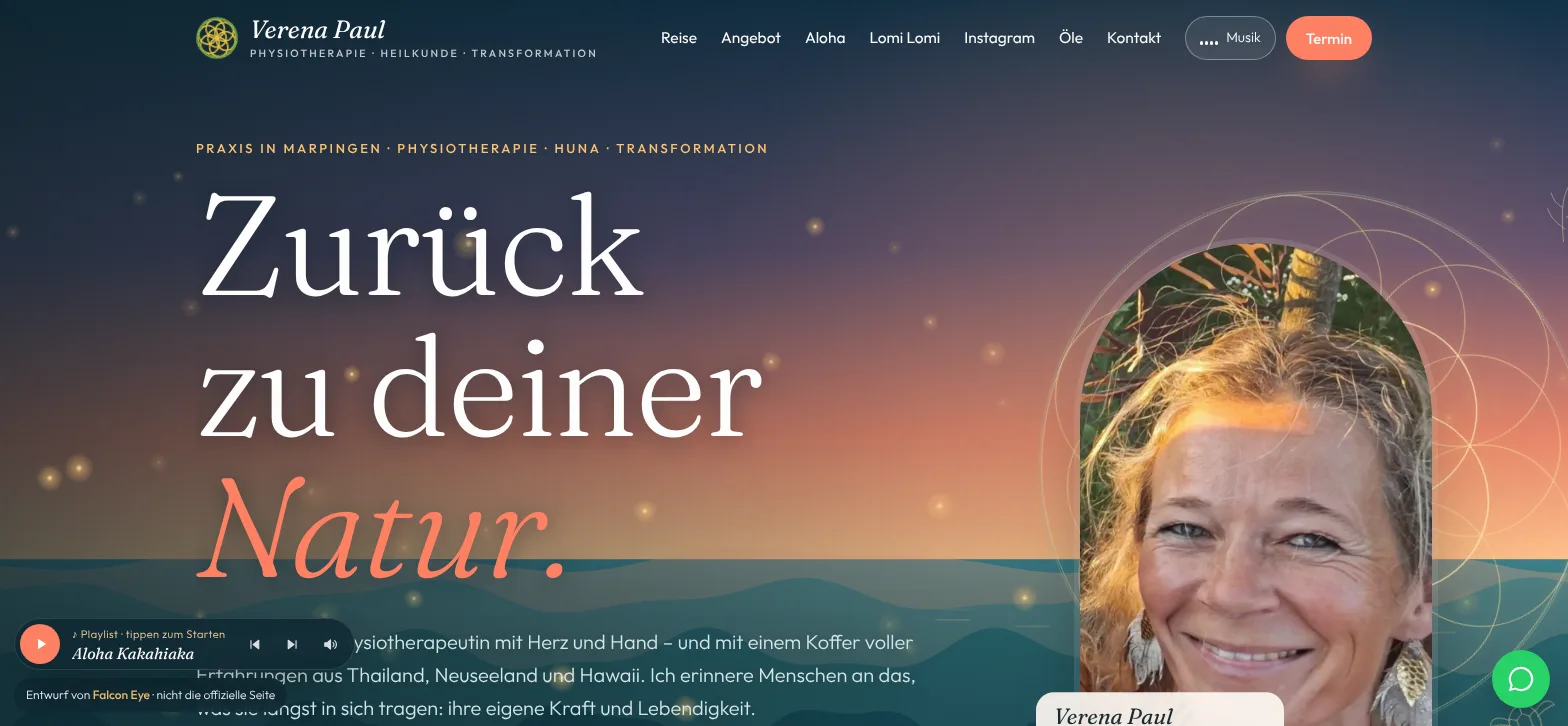
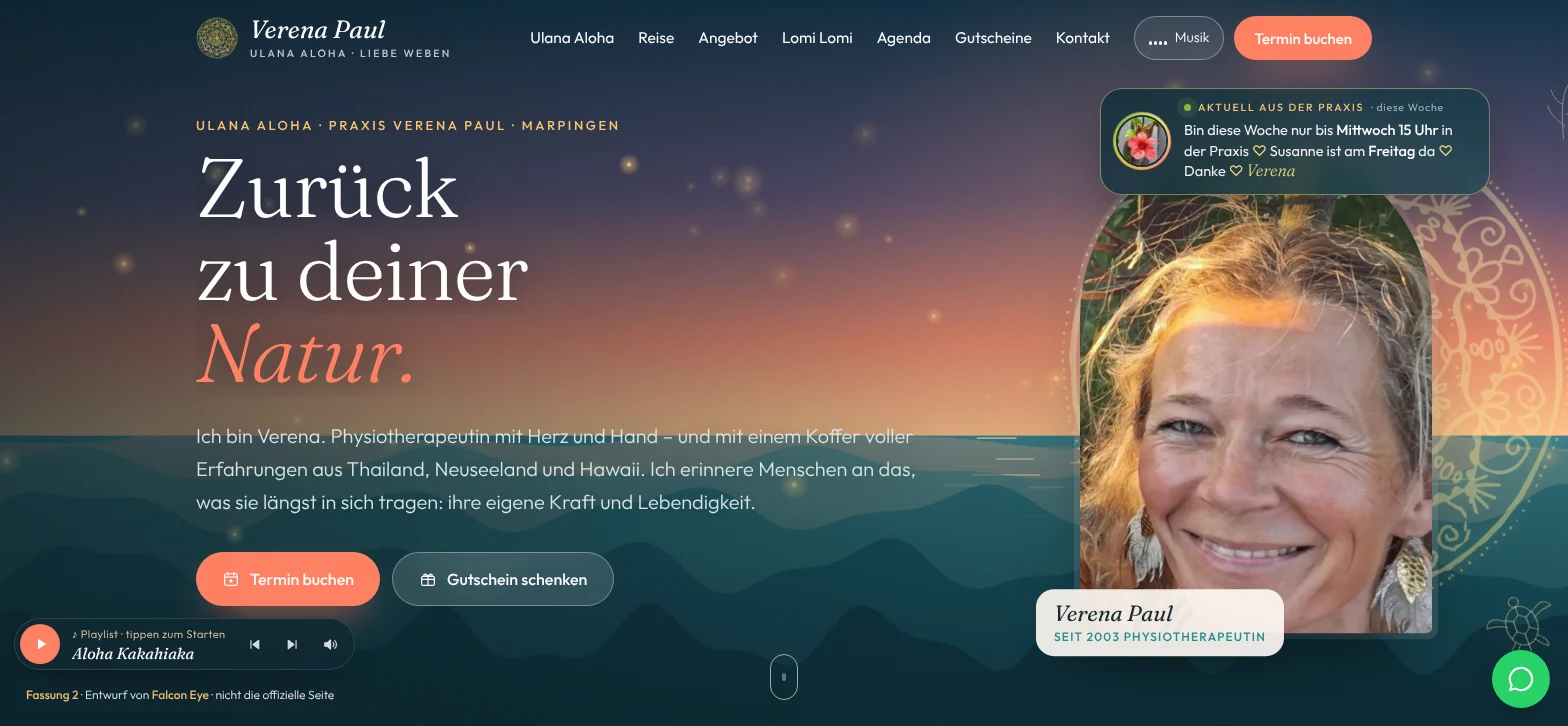
Verena: überall nur die aktuelle Fassung verlinken (Vorhang → V2, Fehlerseite → V2, Hinweis auf V1)
- Vorhang start-verena-paul leitet jetzt auf /verena-paul/v2/ weiter, Vorschaubild „Ab jetzt“ zeigt Fassung 2
- 404-Vorschläge: verena-paul/v2/ statt Fassung 1
- Fassung 1: Hinweis-Chip „Ältere Fassung 1 · zur aktuellen Fassung →“

Claude-Session: https://claude.ai/code/session_016LEtCVV3DNDZYMjAEbo3YN

diff --git a/verena-paul/index.html b/verena-paul/index.html
@@ -428,7 +428,7 @@
   <button type="button" class="pl-b" data-pl-mute aria-label="Stumm schalten" aria-pressed="false"><svg viewBox="0 0 24 24" aria-hidden="true"><g fill="none" stroke="currentColor" stroke-width="1.7" stroke-linecap="round" stroke-linejoin="round"><path d="M4 9.5h3.5L12 5.5v13l-4.5-4H4z" fill="currentColor"/><path class="pl-w" d="M15.5 9a4 4 0 0 1 0 6M18 6.5a7.5 7.5 0 0 1 0 11"/><path class="pl-x" d="M16 9.5l5 5M21 9.5l-5 5"/></g></svg></button>
   <ol class="pl-tracks" data-pl-tracks hidden><li><button type="button" data-pl-track="0"><i>1</i><b>Aloha Kakahiaka</b><span>Guten Morgen</span></button></li><li><button type="button" data-pl-track="1"><i>2</i><b>Nalu</b><span>Die Welle</span></button></li><li><button type="button" data-pl-track="2"><i>3</i><b>Anuenue</b><span>Regenbogen</span></button></li><li><button type="button" data-pl-track="3"><i>4</i><b>Mahina</b><span>Mondlicht</span></button></li></ol>
 </div>
-<a class="concept" href="https://falcon-eye.de" target="_blank" rel="noopener">Entwurf von <b>Falcon Eye</b> · nicht die offizielle Seite</a>
+<a class="concept" href="v2/">Ältere Fassung 1 · <b>zur aktuellen Fassung →</b></a>
 <div class="lb" data-lbox hidden role="dialog" aria-modal="true" aria-label="Bildansicht"><button type="button" class="lb-x" data-lbx aria-label="Schließen">×</button><button type="button" class="lb-n lb-p" data-lbn="-1" aria-label="Vorheriges Bild">‹</button><figure><img alt="" data-lbi><figcaption data-lbc></figcaption></figure><button type="button" class="lb-n" data-lbn="1" aria-label="Nächstes Bild">›</button></div>
 <script>window.VP={"words": [{"w": "Aloha", "p": "a-LO-ha", "m": "Liebe, Zuneigung, Mitgefühl, Gnade – und der Gruß zum Kommen und Gehen.", "n": "Beliebte Deutung: alo = Gegenwart, Angesicht · ha = Atem – „in der Gegenwart des Atems“. Sprachgeschichtlich stammt das Wort vom proto-polynesischen *qarofa: Liebe, Mitgefühl.", "sn": "Wikipedia: Aloha", "su": "https://en.wikipedia.org/wiki/Aloha"}, {"w": "Ha", "p": "HAA", "m": "Atem, Lebensatem.", "n": "Steckt der beliebten Deutung nach auch in „Aloha“. Probier es aus – drei Atemzüge reichen.", "sn": "Wikipedia: Aloha", "su": "https://en.wikipedia.org/wiki/Aloha"}, {"w": "Lomi", "p": "LO-mi", "m": "Reiben, drücken, kneten, massieren.", "n": "Im Hawaiian Dictionary steht dazu: „wie die Krallen einer zufriedenen Katze“. Lomi Lomi ist Verenas „Königin unter den Massagen“.", "sn": "Pukui & Elbert, Hawaiian Dictionary", "su": "https://wehe.hilo.hawaii.edu/?q=lomi"}, {"w": "Mana", "p": "MA-na", "m": "Übernatürliche oder göttliche Kraft, spirituelle Stärke.", "n": "Verena schrieb 2021: „MANA – Alle Kraft kommt von Innen.“", "sn": "Pukui & Elbert, Hawaiian Dictionary", "su": "https://wehe.colo.hawaii.edu/?q=-mana"}, {"w": "Mahalo", "p": "ma-HA-lo", "m": "Danke, Dankbarkeit, Wertschätzung.", "n": "Taucht in Verenas Beiträgen immer wieder auf – meist zusammen mit Aloha.", "sn": "hawaiiurlaub.de: 9 hawaiianische Wörter", "su": "https://www.hawaiiurlaub.de/en/9-hawaiianische-woerter-und-deren-bedeutung-die-du-kennen-solltest-5780/"}, {"w": "ʻOhana", "p": "o-HA-na", "m": "Familie – im weiten Sinn: alle, die zusammengehören.", "n": "Von ʻoha, den Trieben der Taro-Knolle, die aus derselben Wurzel wachsen.", "sn": "Hawaii Guide: Ohana", "su": "https://www.hawaii-guide.com/ohana-meaning"}, {"w": "Hoʻoponopono", "p": "ho-o-PO-no-PO-no", "m": "„Richtig machen“, in Ordnung bringen.", "n": "hoʻo = machen · pono = gut, richtig. Die Hawaiianerin Morrnah Simeona entwickelte daraus 1976 eine Praxis der Klärung und Versöhnung.", "sn": "Wikipedia: Hoʻoponopono", "su": "https://en.wikipedia.org/wiki/Ho%CA%BBoponopono"}, {"w": "Pele", "p": "PE-le", "m": "Göttin der Vulkane und des Feuers in Hawaii.", "n": "Ihr Bild begleitet Verena – im September 2026 teilte sie es mit #pele.", "sn": "Verena auf Instagram", "su": "https://www.instagram.com/praxisverenapaul/"}], "wa": "https://wa.me/4915754354570", "shop": "http://www.mydoterra.com/verenapaul/#/", "body": [{"l": "Nacken", "r": ["Manuelle Therapie", "Physiotherapie", "Individuelle Massage"]}, {"l": "Schulter", "r": ["Physiotherapie", "Manuelle Therapie", "Kinesio-Taping"]}, {"l": "Rücken", "r": ["Physiotherapie", "Thai-Massage", "Lomi Lomi Nui"]}, {"l": "Bauch & Mitte", "r": ["Therapeutische Frauenmassage", "Lymphdrainage"]}, {"l": "Hüfte", "r": ["Manuelle Therapie", "Physiotherapie"]}, {"l": "Knie", "r": ["Physiotherapie", "Sportphysiotherapie", "Taping"]}, {"l": "Schwere Beine", "r": ["Manuelle Lymphdrainage"]}], "feel": [{"l": "Gestresst", "r": ["Lomi Lomi Nui", "Individuelle Massage mit Ritual"], "t": "Wenn der Kopf nicht abschaltet: lange, fließende Griffe, warmes Öl und Zeit nur für dich."}, {"l": "Erschöpft", "r": ["HUNA", "Thai-Massage"], "t": "Zeit für dich – mit Berührung und der Frage, was dir wirklich guttut."}, {"l": "Im Umbruch", "r": ["Transformation", "HUNA"], "t": "Trennung, Neuanfang, Krise: Ich begleite dich – mit Zeit, Zuhören und dem Blick auf deinen Weg."}, {"l": "Zurück zu mir als Frau", "r": ["Therapeutische Frauenmassage", "Lomi Lomi Nui"], "t": "Wärme, Mitte, Verbindung zum eigenen Körper – behutsam und in deinem Tempo."}, {"l": "Einfach neugierig", "r": ["Kennenlerngespräch", "dōTERRA-Beratung"], "t": "Ruf mich an oder schreib mir – wir finden gemeinsam heraus, was zu dir passt."}], "oils": [{"n": "Pfefferminze", "c": "#62c49a", "d": "frisch · klar · wach"}, {"n": "Zitrone", "c": "#f2cf4a", "d": "hell · leicht · spritzig"}, {"n": "Bergamotte", "c": "#9fcf5f", "d": "sonnig · warm · gelassen"}, {"n": "Teebaum", "c": "#7fb2a0", "d": "herb · frisch · natürlich"}, {"n": "Elevation", "c": "#f39a6b", "d": "heiter · blumig · froh"}, {"n": "AromaTouch", "c": "#b9a3d9", "d": "warm · wohlig · weich"}], "tracks": [{"f": "media/aloha_1.mp3", "n": "Aloha Kakahiaka", "m": "Guten Morgen"}, {"f": "media/aloha_2.mp3", "n": "Nalu", "m": "Die Welle"}, {"f": "media/aloha_3.mp3", "n": "Anuenue", "m": "Regenbogen"}, {"f": "media/aloha_4.mp3", "n": "Mahina", "m": "Mondlicht"}]};</script>
 <script src="js/gsap.min.js"></script>

diff --git a/start-verena-paul/index.html b/start-verena-paul/index.html
@@ -114,7 +114,7 @@
 <audio id="m" src="musik.mp3" preload="auto"></audio>
 <script>
 (function(){
-  var TARGET = '../verena-paul/';
+  var TARGET = '../verena-paul/v2/';
   var LINES = ["Hallo, <em>Verena.</em>", "Hier ist Natans kleiner, orangener Freund.", "Wir haben in den letzten Tagen etwas gebaut, das dir hoffentlich gefallen wird.", "Du hast ja schon ein paar Mal erwähnt, dass du wachsen möchtest –", "und dass deine Website mal eine Überarbeitung verdient hätte.", "Und du hast so viele wunderschöne Beiträge auf <em>Instagram.</em>", "Es wäre schade, wenn sie nur dort leben.", "Schau dir die Seite ganz in Ruhe an: Passt sie zu dir?", "Was gefällt dir – und was nicht?", "Was möchtest du noch haben, und was sollen wir besser machen?", "Das ist der erste Entwurf – aber trotzdem mit ganz viel <em>Liebe</em> gemacht.", "Wir wünschen dir ein wunderschönes Restwochenende.", "Und jetzt: viel Spaß. <em>Aloha!</em>"];
   var st=document.getElementById('st'), cap=document.getElementById('cap'), v=document.getElementById('v'), m=document.getElementById('m');
   var started=false, compStarted=false, cur=-1, AC=null, an=null, buf=null, anM=null, bufM=null, lvS=0, root=document.documentElement;

diff --git a/404.html b/404.html
@@ -178,7 +178,7 @@ footer img{height:16px;width:auto;opacity:.7;vertical-align:-3px;margin-right:6p
   const SEITEN = {
     'pellegrin/': 'Pellegrin Küchenstudio', 'pellegrin/ausstellung.html': 'Pellegrin · Ausstellung', 'pellegrin/technik.html': 'Pellegrin · Technik',
     'pellegrin/studio.html': 'Pellegrin · Studio', 'pellegrin/planer.html': 'Pellegrin · 3D-Küchenplaner',
-    'hudalla/': 'Hausmeisterservice Hudalla', 'garten-traum/': 'Der Garten-Traum', 'verena-paul/': 'Praxis Verena Paul',
+    'hudalla/': 'Hausmeisterservice Hudalla', 'garten-traum/': 'Der Garten-Traum', 'verena-paul/v2/': 'Praxis Verena Paul',
     'beispiel/kuechenstudio/': 'Küchenstudio Eichenhof (Beispiel)', 'beispiel/kuechenstudio/planer.html': 'Eichenhof · 3D-Küchenplaner (Beispiel)',
     'waescherei-kleber/': 'Wäscherei Kleber',
     'beispiel/fahrzeugpflege/': 'K&S Aufbereitung (Beispiel)', 'beispiel/fahrzeugpflege/leistungen.html': 'K&S · Leistungen (Beispiel)', 'beispiel/fahrzeugpflege/wohnmobile.html': 'K&S · Wohnmobile (Beispiel)', 'beispiel/fahrzeugpflege/kontakt.html': 'K&S · Kontakt (Beispiel)',
